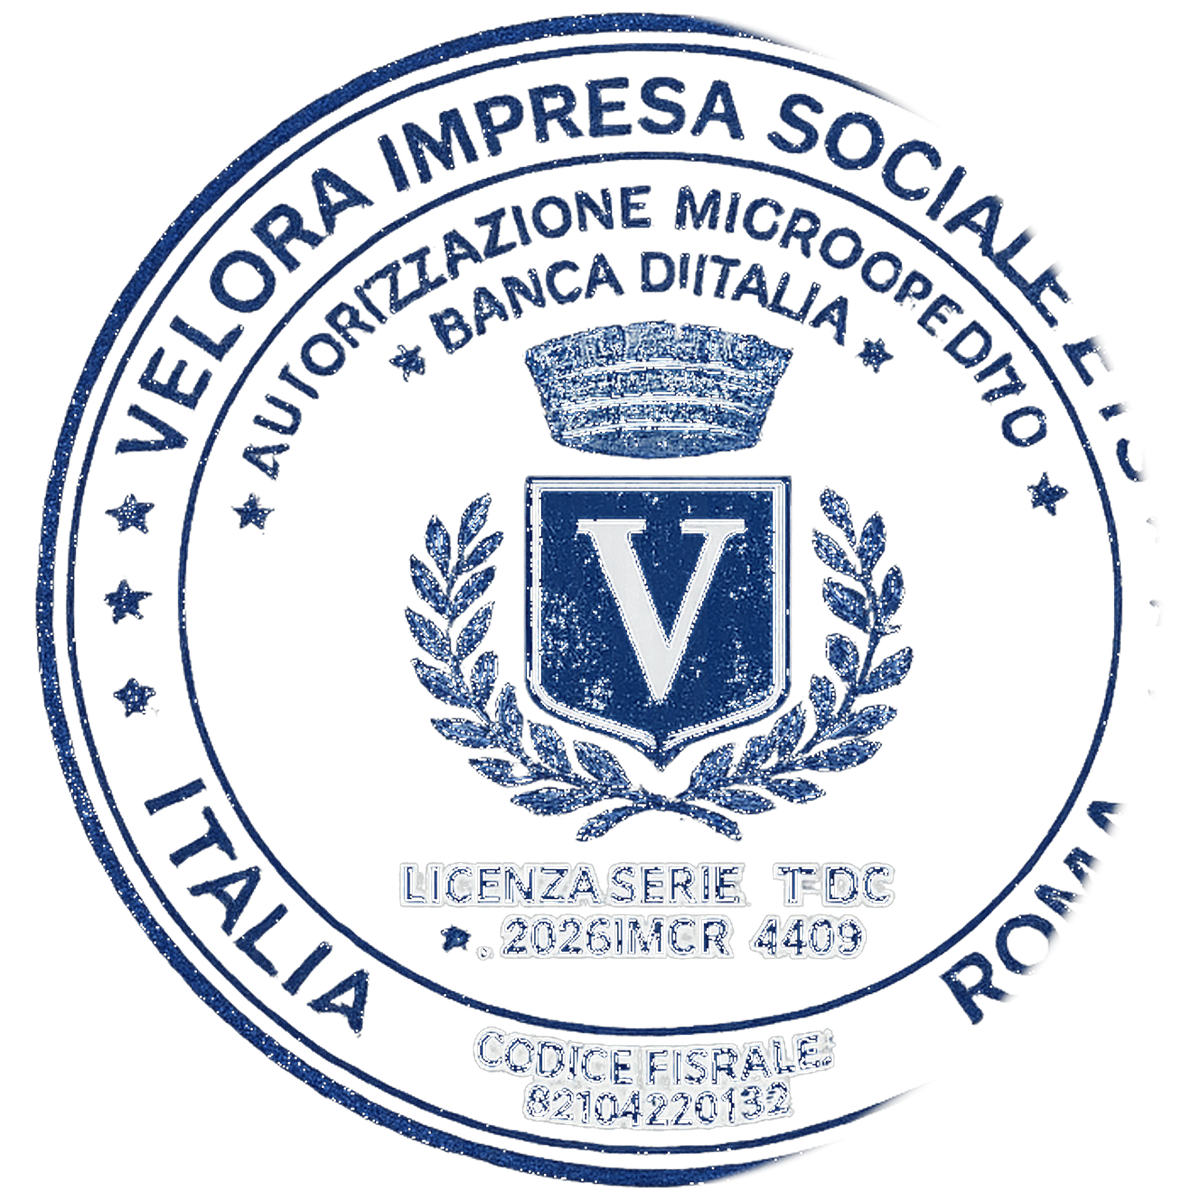
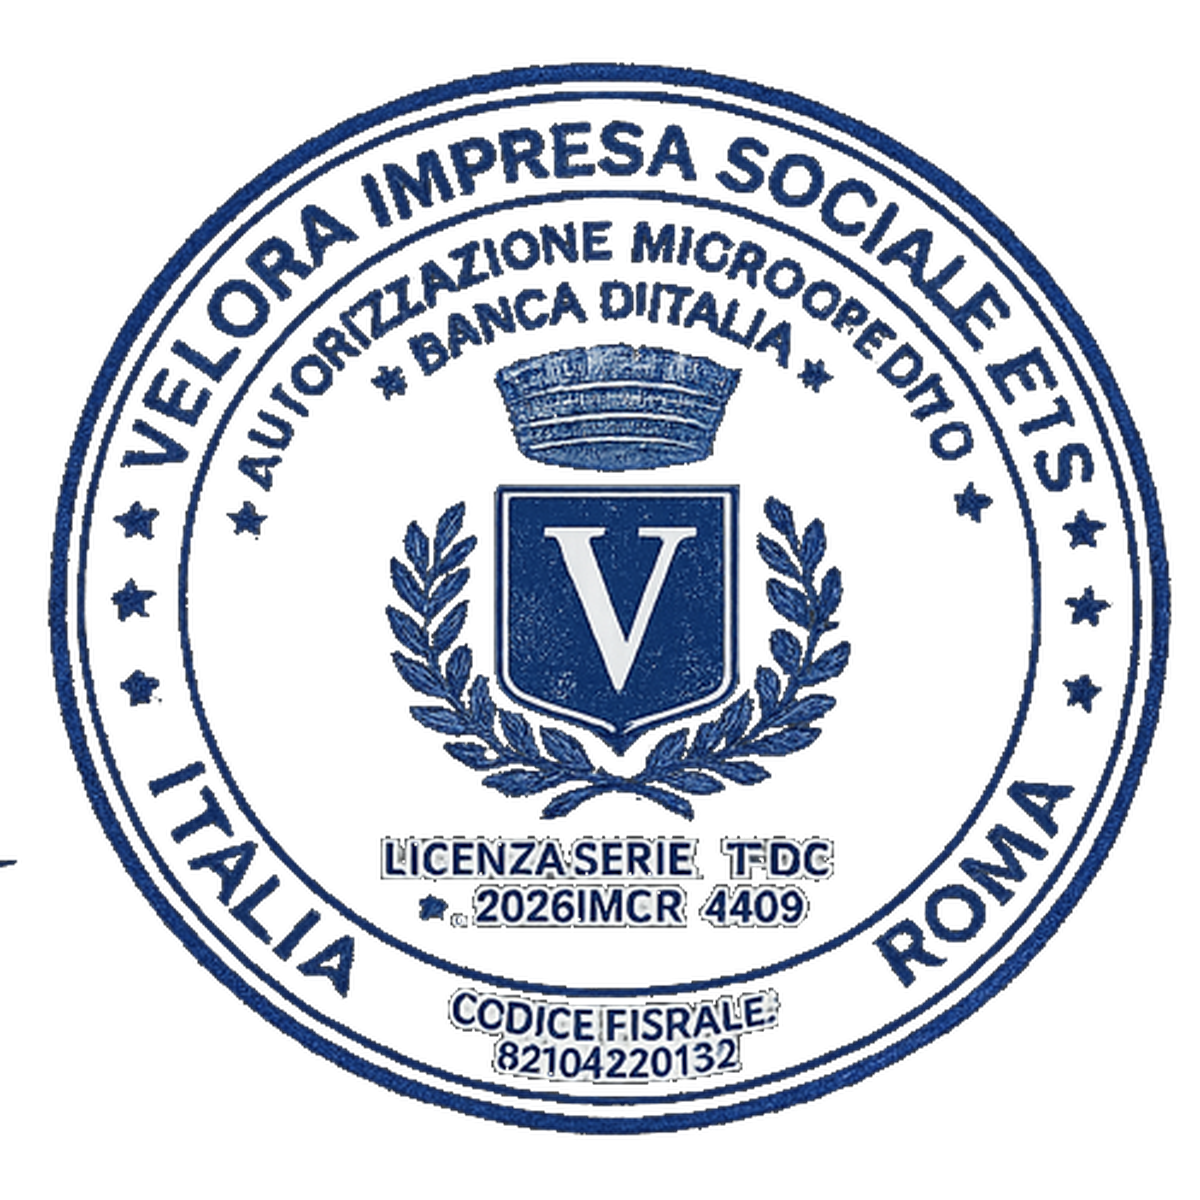
fix(contract): full seal asset, restore borrower sig on baseline
Use complete seal PNG without edge crop. Both signature boxes same height and end-aligned so the user signature sits on the line again. Stamp sits slightly above the lender signature and scales within the column.

diff --git a/frontend/src/features/account/VelContractSignatures.vue b/frontend/src/features/account/VelContractSignatures.vue
@@ -5,8 +5,8 @@ import type { ContractSignedAt } from '@/features/account/contract-data'
 
 /**
  * Подписи на листе договора:
- *  · Prestatore — печать + подпись с прода (без «шахматки» прозрачности);
- *  · Prenditore — росчерк клиента (авто из ФИО / canvas).
+ *  · Prestatore — печать (целиком) + подпись lender, печать чуть выше;
+ *  · Prenditore — росчерк клиента на линии (как было, не поднимаем).
  */
 interface Props {
   signed: boolean
@@ -18,7 +18,6 @@ defineProps<Props>()
 const { t } = useI18n()
 
 const base = import.meta.env.BASE_URL
-/* Печать Velora (крупная, поверх подписи — 66.txt §7 / 3.png) */
 const lenderStamp = computed(() => `${base}cpi/velora-seal.png`)
 const lenderSignature = computed(() => `${base}cpi/lender-signature.webp`)
 </script>
@@ -26,29 +25,27 @@ const lenderSignature = computed(() => `${base}cpi/lender-signature.webp`)
 <template>
   <div class="vel-csign">
     <div class="vel-csign__pair">
-      <!-- Firma del Prestatore: печать выше + подпись lender; не трогаем правую колонку -->
+      <!-- Firma del Prestatore -->
       <div class="vel-csign__slot">
-        <div
-          class="vel-csign__box"
-          :class="{ 'vel-csign__box--lender': signed }"
-        >
+        <div class="vel-csign__box" :class="{ 'vel-csign__box--filled': signed }">
           <template v-if="signed">
             <div class="vel-csign__lender">
-              <img
-                class="vel-csign__stamp"
-                :src="lenderStamp"
-                alt=""
-                width="200"
-                height="200"
-                decoding="async"
-                draggable="false"
-              />
+              <!-- Подпись у линии; печать поверх и чуть выше -->
               <img
                 class="vel-csign__lender-sig"
                 :src="lenderSignature"
                 alt=""
                 width="220"
                 height="80"
+                decoding="async"
+                draggable="false"
+              />
+              <img
+                class="vel-csign__stamp"
+                :src="lenderStamp"
+                alt=""
+                width="200"
+                height="200"
                 decoding="async"
                 draggable="false"
               />
@@ -59,12 +56,9 @@ const lenderSignature = computed(() => `${base}cpi/lender-signature.webp`)
         <p class="vel-csign__label">{{ t('contract.sheet.signatures.lender') }}</p>
       </div>
 
-      <!-- Firma del Prenditore — на линии, как было (не поднимаем) -->
+      <!-- Firma del Prenditore — росчерк на линии, как раньше -->
       <div class="vel-csign__slot">
-        <div
-          class="vel-csign__box"
-          :class="{ 'vel-csign__box--borrower': !!signatureSrc }"
-        >
+        <div class="vel-csign__box" :class="{ 'vel-csign__box--filled': !!signatureSrc }">
           <img
             v-if="signatureSrc"
             class="vel-csign__borrower-sig"
@@ -108,9 +102,10 @@ const lenderSignature = computed(() => `${base}cpi/lender-signature.webp`)
 
 .vel-csign__pair {
   display: grid;
-  /* Две колонки; minmax(0,1fr) — без скрытого overflow у grid-item */
+  /* Две равные колонки; линии подписей выровнены по низу */
   grid-template-columns: repeat(2, minmax(0, 1fr));
-  gap: 1.25rem 1.75rem;
+  align-items: end;
+  gap: 1.5rem 1.5rem;
   margin-block-start: 0.65rem;
   overflow: visible;
 }
@@ -123,30 +118,22 @@ const lenderSignature = computed(() => `${base}cpi/lender-signature.webp`)
   overflow: visible;
 }
 
-/* «Бланк» под подпись — чистая бумага; подпись всегда у линии снизу */
+/* Бланк: подпись всегда у нижней линии */
 .vel-csign__box {
   display: flex;
   min-block-size: 5.75rem;
   align-items: flex-end;
   justify-content: flex-start;
-  padding: 0.35rem 0.25rem 0.15rem;
+  padding: 0.35rem 0.35rem 0.15rem;
   border-block-end: 1px solid color-mix(in oklab, var(--color-fg) 55%, transparent);
   background: transparent;
   overflow: visible;
 }
 
-/* Только ЛЕВАЯ колонка: место под печать + lender-sig */
-.vel-csign__box--lender {
-  min-block-size: 10.75rem;
-  align-items: flex-end;
-  padding-block: 0.25rem 0.2rem;
+/* Обе колонки — одинаковая высота, росчерк у линии (не «в воздухе») */
+.vel-csign__box--filled {
+  min-block-size: 9.5rem;
   overflow: visible;
-}
-
-/* Правая колонка: как раньше — росчерк у линии, не «в воздухе» */
-.vel-csign__box--borrower {
-  min-block-size: 5.75rem;
-  align-items: flex-end;
 }
 
 .vel-csign__placeholder-line {
@@ -155,78 +142,59 @@ const lenderSignature = computed(() => `${base}cpi/lender-signature.webp`)
   block-size: 1px;
 }
 
-/*
- * Печать + подпись Prestatore в потоке (не absolute):
- * absolute вылезал из grid-ячейки и резал правый край круга.
- */
 .vel-csign__lender {
   position: relative;
   display: flex;
   width: 100%;
-  max-width: 100%;
-  box-sizing: border-box;
-  flex-direction: column;
-  align-items: flex-start;
-  justify-content: flex-end;
+  min-block-size: 8.5rem;
+  align-items: flex-end;
   background: transparent;
   overflow: visible;
 }
 
-/* Печать выше lender-sig, целиком в колонке (без обрезки справа) */
+/*
+ * Печать — полный круг, без обрезки.
+ * Ширина не больше колонки; bottom чуть выше линии подписи.
+ */
 .vel-csign__stamp {
-  position: relative;
-  z-index: 2;
-  display: block;
-  box-sizing: border-box;
-  width: min(7.75rem, calc(100% - 2px));
-  height: auto;
+  position: absolute;
+  left: 0;
+  bottom: 0.55rem;
+  z-index: 3;
+  width: min(8.5rem, 100%);
+  height: min(8.5rem, 100%);
   max-width: 100%;
-  aspect-ratio: 1;
-  margin: 0 0 -0.7rem;
   object-fit: contain;
-  object-position: center;
+  object-position: center center;
   background: transparent;
   opacity: 0.98;
   mix-blend-mode: multiply;
-  filter: contrast(1.12) saturate(1.15);
+  filter: contrast(1.1) saturate(1.12);
   pointer-events: none;
   animation: vel-csign-pop 0.5s cubic-bezier(0.22, 1, 0.36, 1) both;
 }
 
-/* Подпись Prestatore (Francesca) — ниже печати */
+/* Подпись Prestatore — у линии, под печатью */
 .vel-csign__lender-sig {
   position: relative;
   z-index: 1;
   display: block;
-  width: auto;
-  max-inline-size: min(100%, 8.5rem);
-  max-block-size: 2.45rem;
-  margin-inline-start: 1rem;
-  margin-block-end: 0;
+  max-inline-size: min(100%, 11rem);
+  max-block-size: 3.2rem;
+  margin-inline-start: 1.25rem;
+  margin-block-end: 0.1rem;
   object-fit: contain;
   object-position: left bottom;
   background: transparent;
   mix-blend-mode: multiply;
-  filter: contrast(1.05);
   animation: vel-csign-pop 0.48s 0.06s cubic-bezier(0.22, 1, 0.36, 1) both;
 }
 
-@media (max-width: 28rem) {
-  .vel-csign__pair {
-    grid-template-columns: 1fr;
-  }
-
-  .vel-csign__stamp {
-    width: min(7.25rem, calc(100% - 2px));
-  }
-}
-
-/* Подпись пользователя — у нижней линии, как было */
+/* Подпись пользователя — на линии, как в исходной версии */
 .vel-csign__borrower-sig {
   display: block;
   max-inline-size: 100%;
-  max-block-size: 3.4rem;
-  margin-block-end: 0.1rem;
+  max-block-size: 4.75rem;
   object-fit: contain;
   object-position: left bottom;
   background: transparent;
